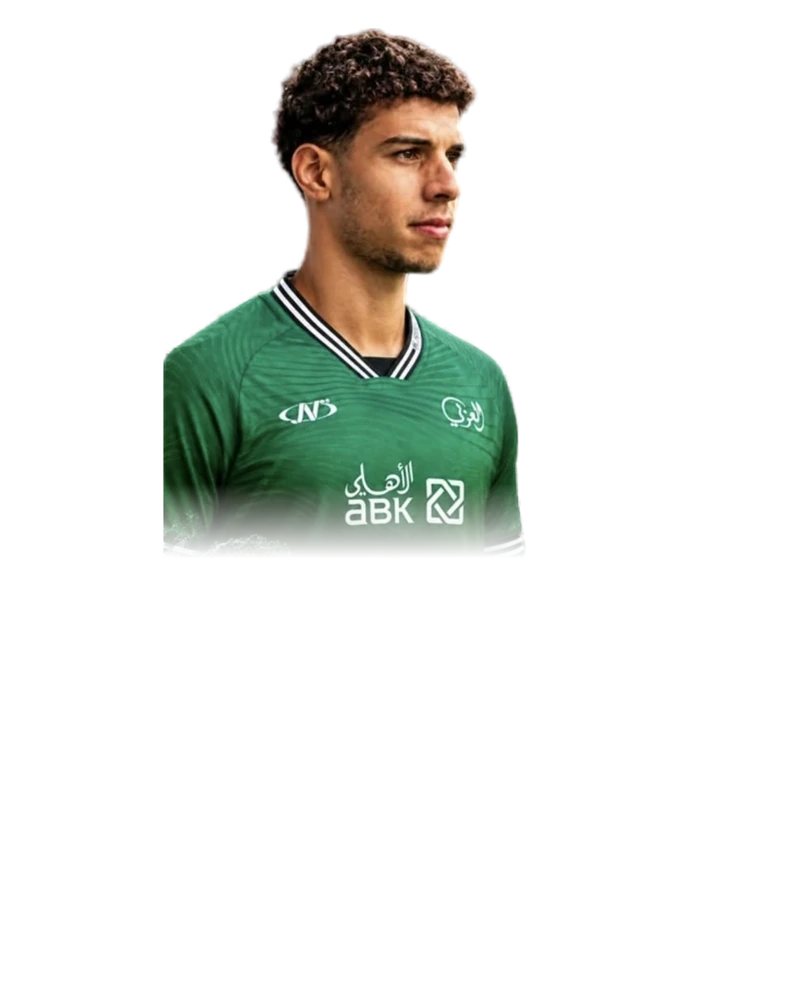
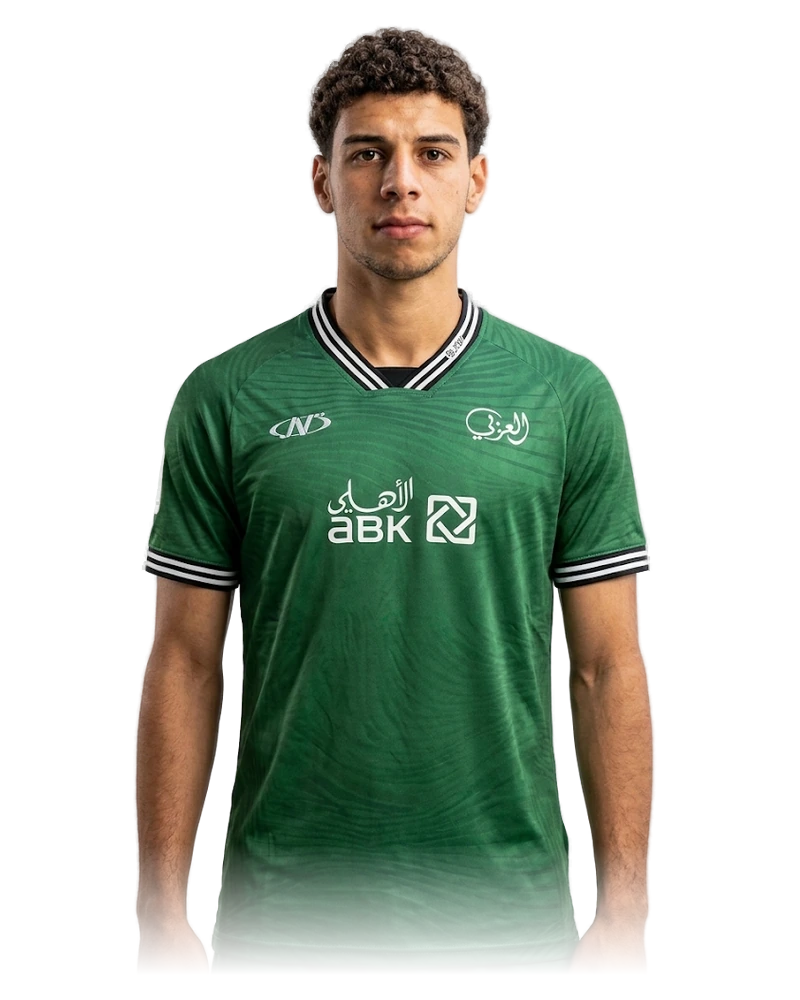
العربي: صورة وليد ولد الشيخ كاملة (وُلّدت من صورته بالملصق عبر Gemini لتطابق حجم باقي اللاعبين) — صور ?v=15، sw -100، fantasy 220

diff --git a/fantasy/index.html b/fantasy/index.html
@@ -12,7 +12,7 @@
 <link rel="preconnect" href="https://fonts.googleapis.com">
 <link rel="preconnect" href="https://fonts.gstatic.com" crossorigin>
 <link href="https://fonts.googleapis.com/css2?family=Vazirmatn:wght@300;400;500;600;700;800&display=swap" rel="stylesheet">
-<link rel="stylesheet" href="css/style.css?v=219">
+<link rel="stylesheet" href="css/style.css?v=220">
 <script src="https://cdnjs.cloudflare.com/ajax/libs/firebase/10.12.2/firebase-app-compat.min.js"></script>
 <script src="https://cdnjs.cloudflare.com/ajax/libs/firebase/10.12.2/firebase-auth-compat.min.js"></script>
 <script src="https://cdnjs.cloudflare.com/ajax/libs/firebase/10.12.2/firebase-firestore-compat.min.js"></script>
@@ -20,13 +20,13 @@
 </head>
 <body>
   <div id="splash">
-    <div class="splash-card"><img class="splash-logo" src="assets/logo-light.png?v=219" alt="Kuwait Fantasy League"></div>
+    <div class="splash-card"><img class="splash-logo" src="assets/logo-light.png?v=220" alt="Kuwait Fantasy League"></div>
   </div>
 
   <header id="topbar" style="display:none">
     <div id="brand" onclick="APP.go('dashboard')">
-      <img class="brand-lockup lk-dark" src="assets/logo-dark.png?v=219" alt="Kuwait Fantasy League">
-      <img class="brand-lockup lk-light" src="assets/logo-light.png?v=219" alt="Kuwait Fantasy League">
+      <img class="brand-lockup lk-dark" src="assets/logo-dark.png?v=220" alt="Kuwait Fantasy League">
+      <img class="brand-lockup lk-light" src="assets/logo-light.png?v=220" alt="Kuwait Fantasy League">
     </div>
     <a id="toSite" href="/" title="العودة للموقع">
       <svg viewBox="0 0 24 24" width="16" height="16" fill="none" stroke="currentColor" stroke-width="2.2" stroke-linecap="round" stroke-linejoin="round" aria-hidden="true"><path d="M9 6l6 6-6 6"/></svg>
@@ -41,28 +41,28 @@
   <nav id="bottomnav"></nav>
   <div id="toasts"></div>
 
-  <script src="js/cloud.js?v=219"></script>
-  <script src="js/data.js?v=219"></script>
-  <script src="js/engine.js?v=219"></script>
-  <script src="js/ui.js?v=219"></script>
-  <script src="js/photos.js?v=219"></script>
-  <script src="js/kits.js?v=219"></script>
-  <script src="js/kits-number.js?v=219"></script>
-  <script src="js/moderation.js?v=219"></script>
-  <script src="js/views.js?v=219"></script>
-  <script src="js/picker.js?v=219"></script>
-  <script src="js/extras.js?v=219"></script>
-  <script src="js/push.js?v=219"></script>
-  <script src="js/adminauth.js?v=219"></script>
-  <script src="js/admin.js?v=219"></script>
-  <script src="js/guide.js?v=219"></script>
-  <script src="js/live-gw.js?v=219"></script>
-  <script src="js/points.js?v=219"></script>
-  <script src="js/mfsync.js?v=219"></script>
-  <script src="js/roster-sync.js?v=219"></script>
-  <script src="js/app.js?v=219"></script>
-  <script src="js/i18n.js?v=219"></script>
-  <script src="js/i18n-more.js?v=219"></script>
-  <script src="js/gate.js?v=219"></script>
+  <script src="js/cloud.js?v=220"></script>
+  <script src="js/data.js?v=220"></script>
+  <script src="js/engine.js?v=220"></script>
+  <script src="js/ui.js?v=220"></script>
+  <script src="js/photos.js?v=220"></script>
+  <script src="js/kits.js?v=220"></script>
+  <script src="js/kits-number.js?v=220"></script>
+  <script src="js/moderation.js?v=220"></script>
+  <script src="js/views.js?v=220"></script>
+  <script src="js/picker.js?v=220"></script>
+  <script src="js/extras.js?v=220"></script>
+  <script src="js/push.js?v=220"></script>
+  <script src="js/adminauth.js?v=220"></script>
+  <script src="js/admin.js?v=220"></script>
+  <script src="js/guide.js?v=220"></script>
+  <script src="js/live-gw.js?v=220"></script>
+  <script src="js/points.js?v=220"></script>
+  <script src="js/mfsync.js?v=220"></script>
+  <script src="js/roster-sync.js?v=220"></script>
+  <script src="js/app.js?v=220"></script>
+  <script src="js/i18n.js?v=220"></script>
+  <script src="js/i18n-more.js?v=220"></script>
+  <script src="js/gate.js?v=220"></script>
 </body>
 </html>

diff --git a/sw.js b/sw.js
@@ -9,7 +9,7 @@
 
    عند كل نشر: ارفع رقم VER فتُبنى ذاكرة جديدة وتُحذف القديمة.
    ========================================================= */
-const VER   = 'mf-2026-09-16-99';
+const VER   = 'mf-2026-09-16-100';
 const SHELL = 'shell-' + VER;
 const RUN   = 'run-'   + VER;
 

diff --git a/fantasy/js/photos.js b/fantasy/js/photos.js
@@ -4,7 +4,7 @@
 'use strict';
 
 /* رقم نسخة الصور: ارفعه عند إعادة توليد أي قصّة حتى لا يبقى المتصفح على النسخة القديمة */
-const PLAYER_PHOTOS_VER = '14';
+const PLAYER_PHOTOS_VER = '15';
 
 const PLAYER_PHOTOS = {
   // الصليبخات (17)
